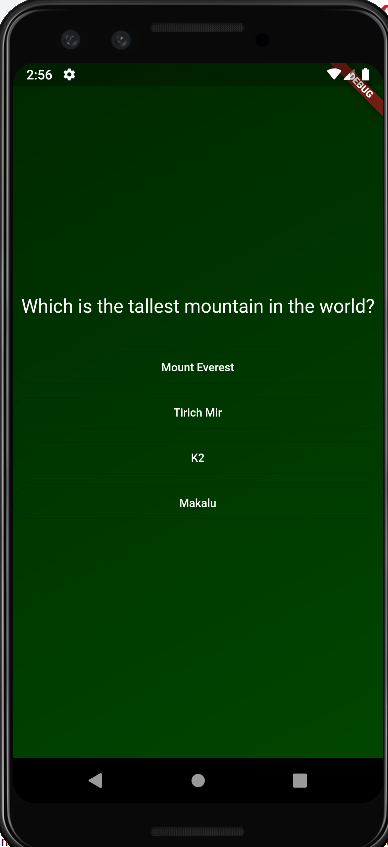
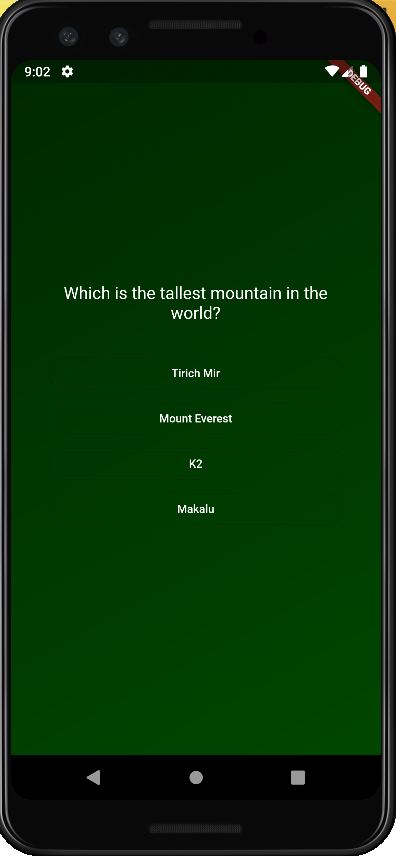
Commit_3 - Created new questions, changed style of questions screen

diff --git a/lib/questionsScreen.dart b/lib/questionsScreen.dart
@@ -16,21 +16,23 @@ class _QuestionsScreenState extends State<QuestionsScreen> {
   Widget build(BuildContext context) {
     final currentQuestion = questions[0];
 
-    return Column(
-      mainAxisSize: MainAxisSize.min,
-      mainAxisAlignment: MainAxisAlignment.center,
-      children: [
-        Text(
-          currentQuestion.text,
-          textAlign: TextAlign.center,
-          style: TextStyle(color: Colors.white, fontSize: 20),
-        ),
-        SizedBox(height: 30),
-        AnswerButton(answer: currentQuestion.answers[0], onTap: () {}),
-        AnswerButton(answer: currentQuestion.answers[1], onTap: () {}),
-        AnswerButton(answer: currentQuestion.answers[2], onTap: () {}),
-        AnswerButton(answer: currentQuestion.answers[3], onTap: () {}),
-      ],
+    return Container(
+      margin: const EdgeInsets.all(40),
+      child: Column(
+        mainAxisSize: MainAxisSize.min,
+        crossAxisAlignment: CrossAxisAlignment.stretch,
+        children: [
+          Text(
+            currentQuestion.text,
+            textAlign: TextAlign.center,
+            style: TextStyle(color: Colors.white, fontSize: 18),
+          ),
+          SizedBox(height: 30),
+          ...currentQuestion.getShuffledAnswers().map((answer) {
+            return AnswerButton(answer: answer, onTap: () {});
+          }),
+        ],
+      ),
     );
   }
 }

diff --git a/lib/data/questions.dart b/lib/data/questions.dart
@@ -7,34 +7,34 @@ const questions = [
     'K2',
     'Makalu',
   ]),
-  QuizQuestion('hehe2', [
-    'hehe',
-    'hehe',
-    'hehe',
-    'hehe',
+  QuizQuestion('Which country has the largest population in the world?', [
+    'China',
+    'USA',
+    'Brazil',
+    'India',
   ]),
-  QuizQuestion('hehe3', [
-    'hehe',
-    'hehe',
-    'hehe',
-    'hehe',
+  QuizQuestion('What is the name of the longest river in Africa?', [
+    'Nile',
+    'Vistula',
+    'Amazon',
+    'Dunn\'s',
   ]),
-  QuizQuestion('hehe4', [
-    'hehe',
-    'hehe',
-    'hehe',
-    'hehe',
+  QuizQuestion('What American city is the Golden Gate Bridge located in?', [
+    'San Francisco',
+    'Miami',
+    'Chicago',
+    'New York',
   ]),
-  QuizQuestion('hehe5', [
-    'hehe',
-    'hehe',
-    'hehe',
-    'hehe',
+  QuizQuestion('What is the capital of Canada?', [
+    'Ottawa',
+    'Toronto',
+    'Calgary',
+    'Montreal',
   ]),
-  QuizQuestion('hehe6', [
-    'hehe',
-    'hehe',
-    'hehe',
-    'hehe',
+  QuizQuestion('What is the name of the smallest country in the world?', [
+    'Vatican',
+    'Andora',
+    'Lichtenstein',
+    'San Marino',
   ]),
 ];

diff --git a/lib/models/quizQuestion.dart b/lib/models/quizQuestion.dart
@@ -3,4 +3,10 @@ class QuizQuestion {
 
   final String text;
   final List<String> answers;
+
+  List<String> getShuffledAnswers() {
+    final shuffledList = List.of(answers);
+    shuffledList.shuffle();
+    return shuffledList;
+  }
 }
